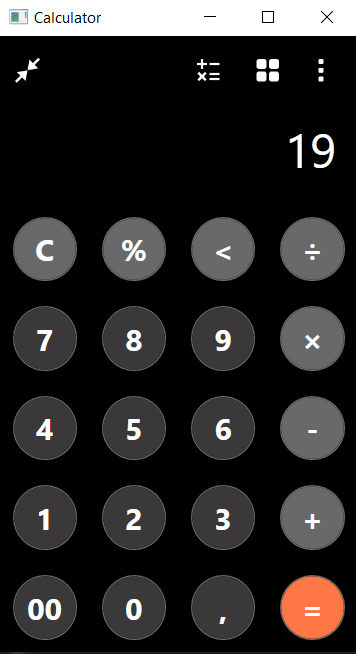
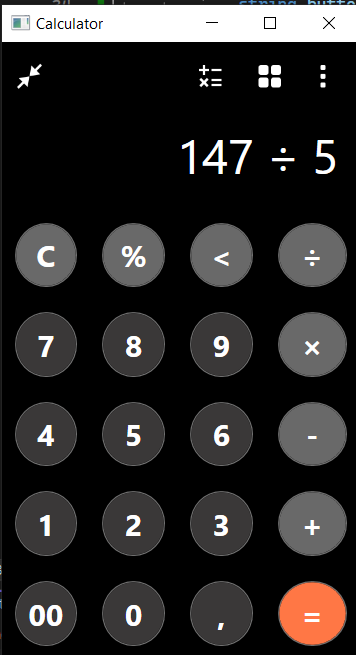
+ MVVM model

diff --git a/Calculator/MainWindow.xaml b/Calculator/MainWindow.xaml
@@ -2,8 +2,7 @@
         xmlns="http://schemas.microsoft.com/winfx/2006/xaml/presentation"
         xmlns:x="http://schemas.microsoft.com/winfx/2006/xaml"
         xmlns:d="http://schemas.microsoft.com/expression/blend/2008"
-        xmlns:mc="http://schemas.openxmlformats.org/markup-compatibility/2006"
-        xmlns:local="clr-namespace:Calculator"
+        xmlns:mc="http://schemas.openxmlformats.org/markup-compatibility/2006" 
         mc:Ignorable="d"
         Title="Calculator" Height="530" Width="300">
     <Window.Resources>
@@ -57,17 +56,20 @@
             </Grid>
         </Grid>
         <Grid Grid.Row="1">
-            <TextBox Text="19" Grid.Row="0" Style="{StaticResource BorderlessTextBox}"/>
+            <Grid.RowDefinitions>
+                <RowDefinition Height="*"/>
+            </Grid.RowDefinitions>
+            <TextBox Name="textboxRes" Text="{Binding CurrentOperation, UpdateSourceTrigger=PropertyChanged, Mode=OneWay}" Grid.Row="0" Style="{StaticResource BorderlessTextBox}"/>
         </Grid>
         <Grid Grid.Row="2">
             <Grid.Resources>
                 <Style TargetType="Button" BasedOn="{StaticResource RoundButton}"/>
             </Grid.Resources>
             <Grid.ColumnDefinitions>
-                <ColumnDefinition Width="*"/>
-                <ColumnDefinition Width="*"/>
-                <ColumnDefinition Width="*"/>
-                <ColumnDefinition Width="*"/>
+                <ColumnDefinition/>
+                <ColumnDefinition/>
+                <ColumnDefinition/>
+                <ColumnDefinition Width="75"/>
             </Grid.ColumnDefinitions>
             <Grid.RowDefinitions>
                 <RowDefinition Height="*"/>
@@ -76,26 +78,26 @@
                 <RowDefinition Height="*"/>
                 <RowDefinition Height="*"/>
             </Grid.RowDefinitions>
-            <Button Content="C" Grid.Column="0" Grid.Row="0" Style="{StaticResource DimGrayButton}"/>
+            <Button Content="C" Click="ClearButtonClicked" Grid.Column="0" Grid.Row="0" Style="{StaticResource DimGrayButton}"/>
             <Button Content="%" Grid.Column="1" Grid.Row="0" Style="{StaticResource DimGrayButton}"/>
-            <Button Content="&lt;" Grid.Column="2" Grid.Row="0" Style="{StaticResource DimGrayButton}"/>
-            <Button Content="÷" Grid.Column="3" Grid.Row="0" Style="{StaticResource DimGrayButton}"/>
-            <Button Content="7" Grid.Column="0" Grid.Row="1"/>
-            <Button Content="8" Grid.Column="1" Grid.Row="1"/>
-            <Button Content="9" Grid.Column="2" Grid.Row="1"/>
-            <Button Content="×" Grid.Column="3" Grid.Row="1" Style="{StaticResource DimGrayButton}"/>
-            <Button Content="4" Grid.Column="0" Grid.Row="2"/>
-            <Button Content="5" Grid.Column="1" Grid.Row="2"/>
-            <Button Content="6" Grid.Column="2" Grid.Row="2"/>
-            <Button Content="-" Grid.Column="3" Grid.Row="2" Style="{StaticResource DimGrayButton}"/>
-            <Button Content="1" Grid.Column="0" Grid.Row="3"/>
-            <Button Content="2" Grid.Column="1" Grid.Row="3"/>
-            <Button Content="3" Grid.Column="2" Grid.Row="3"/>
-            <Button Content="+" Grid.Column="3" Grid.Row="3" Style="{StaticResource DimGrayButton}"/>
-            <Button Content="00" Grid.Column="0" Grid.Row="4"/>
-            <Button Content="0" Grid.Column="1" Grid.Row="4"/>
-            <Button Content="," Grid.Column="2" Grid.Row="4"/>
-            <Button Content="=" Grid.Column="3" Grid.Row="4" Style="{StaticResource OrangeButton}"/>
+            <Button Content="&lt;" Click="ClearLastNumberButtonClicked" Grid.Column="2" Grid.Row="0" Style="{StaticResource DimGrayButton}"/>
+            <Button Content="÷" Click="OperatorButtonClicked" Grid.Column="3" Grid.Row="0" Style="{StaticResource DimGrayButton}"/>
+            <Button Content="7" Click="NumberButtonClicked" Grid.Column="0" Grid.Row="1"/>
+            <Button Content="8" Click="NumberButtonClicked" Grid.Column="1" Grid.Row="1"/>
+            <Button Content="9" Click="NumberButtonClicked" Grid.Column="2" Grid.Row="1"/>
+            <Button Content="×" Click="OperatorButtonClicked" Grid.Column="3" Grid.Row="1" Style="{StaticResource DimGrayButton}"/>
+            <Button Content="4" Click="NumberButtonClicked" Grid.Column="0" Grid.Row="2"/>
+            <Button Content="5" Click="NumberButtonClicked" Grid.Column="1" Grid.Row="2"/>
+            <Button Content="6" Click="NumberButtonClicked" Grid.Column="2" Grid.Row="2"/>
+            <Button Content="-" Click="OperatorButtonClicked" Grid.Column="3" Grid.Row="2" Style="{StaticResource DimGrayButton}"/>
+            <Button Content="1" Click="NumberButtonClicked" Grid.Column="0" Grid.Row="3"/>
+            <Button Content="2" Click="NumberButtonClicked" Grid.Column="1" Grid.Row="3"/>
+            <Button Content="3" Click="NumberButtonClicked" Grid.Column="2" Grid.Row="3"/>
+            <Button Content="+" Click="OperatorButtonClicked" Grid.Column="3" Grid.Row="3" Style="{StaticResource DimGrayButton}"/>
+            <Button Content="00" Click="ClearButtonClicked" Grid.Column="0" Grid.Row="4"/>
+            <Button Content="0" Click="NumberButtonClicked" Grid.Column="1" Grid.Row="4"/>
+            <Button Content="," Click="NumberButtonClicked" Grid.Column="2" Grid.Row="4"/>
+            <Button Content="=" Click="EqualsButtonClicked" Grid.Column="3" Grid.Row="4" Style="{StaticResource OrangeButton}"/>
         </Grid>
     </Grid>
 </Window>

diff --git a/Calculator/MainWindow.xaml.cs b/Calculator/MainWindow.xaml.cs
@@ -20,9 +20,92 @@ namespace Calculator
     /// </summary>
     public partial class MainWindow : Window
     {
+        private CalculatorViewModel viewModel;
+
         public MainWindow()
         {
             InitializeComponent();
+            viewModel = new CalculatorViewModel();
+            DataContext = viewModel;
+        }
+
+        public void NumberButtonClicked(object sender, RoutedEventArgs e)
+        {
+            string buttonContent = (sender as Button).Content.ToString();
+            if (!viewModel.isOperatorClicked)
+            {
+                if (viewModel.LeftOperand == "0" && buttonContent != ",")
+                {
+                    viewModel.LeftOperand = buttonContent;
+                }
+                else if (buttonContent == "," && !viewModel.LeftOperand.Contains(","))
+                {
+                    viewModel.LeftOperand += ",";
+                }
+                else
+                {
+                    viewModel.LeftOperand += buttonContent;
+                }
+            }
+            else
+            {
+                if (viewModel.RightOperand == "0" && buttonContent != ",")
+                {
+                    viewModel.RightOperand = buttonContent;
+                }
+                else if (buttonContent == "," && !viewModel.RightOperand.Contains(","))
+                {
+                    viewModel.RightOperand += ",";
+                }
+                else
+                {
+                    viewModel.RightOperand += buttonContent;
+                }
+            }
+        }
+
+        public void OperatorButtonClicked(object sender, RoutedEventArgs e)
+        {
+            viewModel.Operator = (sender as Button).Content.ToString()[0];
+            viewModel.isOperatorClicked = true;
+        }
+
+        public void ClearButtonClicked(object sender, RoutedEventArgs e)
+        {
+            viewModel.ClearOperandsAndOperator();
+        }
+
+        public void ClearLastNumberButtonClicked(object sender, RoutedEventArgs e)
+        {
+            if (!viewModel.isOperatorClicked)
+            {
+                if (viewModel.LeftOperand.Length > 1)
+                {
+                    viewModel.LeftOperand = viewModel.LeftOperand.Remove(viewModel.LeftOperand.Length - 1);
+                }
+                else
+                {
+                    viewModel.LeftOperand = "0";
+                }
+            }
+            else
+            {
+                if (viewModel.RightOperand.Length > 1)
+                {
+                    viewModel.RightOperand = viewModel.RightOperand.Remove(viewModel.RightOperand.Length - 1);
+                }
+                else
+                {
+                    viewModel.RightOperand = "0";
+                }
+            }
+        }
+
+        public void EqualsButtonClicked(object sender, RoutedEventArgs e)
+        {
+            viewModel.Calculate();
+            viewModel.LeftOperand = viewModel.Result.ToString();
+            viewModel.RightOperand = "0";
         }
     }
 }

diff --git a/Calculator/CalculatorViewModel.cs b/Calculator/CalculatorViewModel.cs
@@ -1,0 +1,103 @@
+using System;
+using System.Collections.Generic;
+using System.ComponentModel;
+using System.Globalization;
+using System.Linq;
+using System.Text;
+using System.Threading.Tasks;
+
+namespace Calculator
+{
+    public class CalculatorViewModel : INotifyPropertyChanged
+    {
+        private CalculatorModel model;
+        public bool isOperatorClicked { get; set; }
+
+        public CalculatorViewModel() 
+        { 
+            model = new CalculatorModel();
+            isOperatorClicked = false;
+        }
+
+        public string LeftOperand
+        {
+            get => model.LeftOperand.ToString();
+            set
+            {
+                if (double.TryParse(value, out double parsedValue))
+                {
+                    model.LeftOperand = parsedValue;
+                    OnPropertyChanged(nameof(LeftOperand));
+                    OnPropertyChanged(nameof(CurrentOperation));
+                }
+            }
+        }
+
+        public string RightOperand
+        {
+            get => model.RightOperand.ToString();
+            set
+            {
+                if (double.TryParse(value, out double parsedValue))
+                {
+                    model.RightOperand = parsedValue;
+                    OnPropertyChanged(nameof(RightOperand));
+                    OnPropertyChanged(nameof(CurrentOperation));
+                }
+            }
+        }
+
+        public char Operator
+        {
+            get => model.Operator;
+            set
+            {
+                model.Operator = value;
+                isOperatorClicked = true;
+                OnPropertyChanged(nameof(CurrentOperation));
+            }
+        }
+
+        public double Result
+        {
+            get => model.Result;
+            set => OnPropertyChanged(nameof(Result));
+        }
+
+        public void Calculate()
+        {
+            OnPropertyChanged(nameof(Result));
+            isOperatorClicked = false;
+        }
+
+        public void ClearOperandsAndOperator()
+        {
+            LeftOperand = "0";
+            RightOperand = "0";
+            isOperatorClicked = false;
+            Calculate();
+        }
+
+
+        public string CurrentOperation
+        {
+            get
+            {
+                if (isOperatorClicked)
+                {
+                    return $"{LeftOperand} {Operator} {RightOperand}";
+                }
+                else
+                {
+                    return LeftOperand;
+                }
+            }
+        }
+
+        public event PropertyChangedEventHandler PropertyChanged;
+        protected virtual void OnPropertyChanged(string propertyName)
+        {
+            PropertyChanged?.Invoke(this, new PropertyChangedEventArgs(propertyName));
+        }
+    }
+}

diff --git a/Calculator/CalculatorModel.cs b/Calculator/CalculatorModel.cs
@@ -1,0 +1,41 @@
+using System;
+using System.Collections.Generic;
+using System.Linq;
+using System.Text;
+using System.Threading.Tasks;
+
+namespace Calculator
+{
+    class CalculatorModel
+    {
+        public double LeftOperand { get; set; }
+        public double RightOperand { get; set; }
+        public char Operator { get; set; }
+        
+        public CalculatorModel() 
+        {
+            LeftOperand = 0;
+            RightOperand = 0;
+            Operator = '+';
+        }
+
+        public double Result
+        {
+            get
+            {
+                switch (Operator)
+                {
+                    case '+':
+                        return LeftOperand + RightOperand;
+                    case '-':
+                        return LeftOperand - RightOperand;
+                    case '×':
+                        return LeftOperand * RightOperand;
+                    case '÷':
+                        return LeftOperand / RightOperand;
+                }
+                return -1;
+            }
+        }
+    }
+}

diff --git a/README.md b/README.md
@@ -1,3 +1,16 @@
-# My Calculator
+# My Calculator (MVVM model)
 
-<img src="images/1.png" width="75%">
+<table>
+  <tr>
+    <td><img src="images/1.png"></td>
+    <td><img src="images/2.png"></td>
+  </tr>
+  <tr>
+    <td><img src="images/3.png"></td>
+    <td><img src="images/4.png"></td>
+  </tr>
+  <tr>
+    <td><img src="images/5.png"></td>
+    <td><img src="images/6.png"></td>
+  </tr>
+</table>
